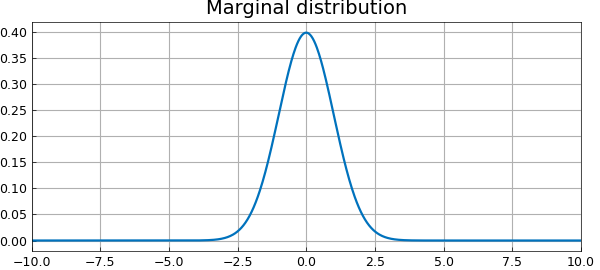
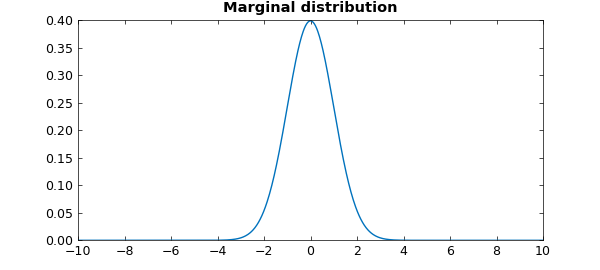
Restore computed bivariate conditional density and page output

Changed region(s): [[0.0, 0.0, 0.99, 1.0]]

diff --git a/examples/stats/bivariate_normal_distribution.py b/examples/stats/bivariate_normal_distribution.py
@@ -22,7 +22,7 @@ import numpy as np
 sys.path.insert(0, os.path.join(os.path.dirname(__file__), '..', '..', 'src'))
 
 import chebfunjax as cj
-from chebfunjax.plotting import chebfun_style
+from chebfunjax.plotting import PARULA, chebfun_style, surf
 from chebfunjax.plotting import save_chebfun_figure as _savefig
 
 chebfun_style()
@@ -32,10 +32,31 @@ _IMG = os.path.join(_HERE, '..', '..', 'docs', 'images', 'stats')
 FIG = [0]
 
 
+def _format_axes(fig, number):
+    ax = fig.axes[0]
+    ax.tick_params(labelsize=9)
+    if number < 3:
+        ax.set_title(ax.get_title(), fontsize=10.5, fontweight="bold")
+        ax.set_xticks(np.arange(-10, 11, 2))
+        ax.tick_params(direction="in", top=True, right=True)
+        if number == 1:
+            ax.set_yticks(np.arange(-10, 11, 2))
+            for collection in ax.collections:
+                collection.set_linewidth(0.5)
+        else:
+            ax.set_yticks(np.arange(0, 0.401, 0.05))
+            for line in ax.lines:
+                line.set_linewidth(1.0)
+    else:
+        ax.set_xticks(np.arange(-2, 3))
+        ax.set_yticks(np.arange(-2, 3))
+        ax.set_zticks(np.arange(0, 0.51, 0.1))
+
+
 def _save(fig):
     FIG[0] += 1
     fig.set_facecolor("white")
-    fig.tight_layout()
+    _format_axes(fig, FIG[0])
     _savefig(fig, os.path.join(
         _IMG, f"BivariateNormalDistribution_{FIG[0]:02d}.png"))
     plt.close(fig)
@@ -60,58 +81,51 @@ def run():
                           * jnp.sqrt(1 - rho**2))
         * jnp.exp(-z(x, y) / (2 * (1 - rho**2))), domain=d)
 
-    xs = np.linspace(-4, 4, 240)
+    xs = np.linspace(-10, 10, 240)
     X, Y = np.meshgrid(xs, xs)
     Z = np.asarray(p(jnp.asarray(X), jnp.asarray(Y)))
-    fig, ax = plt.subplots(figsize=(7.6, 6.4))
-    ax.contour(X, Y, Z, levels=np.arange(0.001, 0.2, 0.01))
+    fig = plt.figure(figsize=(6.0, 2.7))
+    ax = fig.add_axes([0.13, 0.11, 0.775, 0.815])
+    ax.contour(X, Y, Z, levels=np.arange(0.001, 0.2, 0.01), cmap=PARULA)
     ax.set_title("Bivariate normal distribution", fontsize=14)
-    ax.set_aspect("equal")
+    ax.set_xlim(-10, 10)
+    ax.set_ylim(-10, 10)
     _save(fig)
     print(f"Integral of pdf {float(p.sum2()):1.16f}")
 
-    px = p.sum(dim=1)   # marginal over y
+    px = p.sum()   # source default: integrate over y
     xg = np.linspace(-10, 10, 800)
-    fig, ax = plt.subplots(figsize=(9.0, 4.6))
+    fig = plt.figure(figsize=(6.0, 2.7))
+    ax = fig.add_axes([0.13, 0.11, 0.775, 0.815])
     ax.plot(xg, np.asarray(px(xg)).ravel(), lw=1.6)
     ax.set_title("Marginal distribution", fontsize=14)
-    ax.grid(True)
+    ax.set_xlim(-10, 10)
+    ax.set_ylim(0, 0.4)
     _save(fig)
-    exact = (lambda x: 1 / (np.sqrt(2 * np.pi) * s1)
-             * np.exp(-(x - mu1)**2 / s1**2 / 2))
-    gx, gw = np.polynomial.legendre.leggauss(1000)
-    xq = 10 * gx
-    dv = np.asarray(px(xq)).ravel() - exact(xq)
-    err = np.sqrt(np.sum(gw * dv**2) * 10)
+    exact = cj.chebfun(
+        lambda x: 1 / (jnp.sqrt(2 * jnp.pi) * s1)
+        * jnp.exp(-(x - mu1)**2 / s1**2 / 2), domain=d[:2])
+    err = float((px - exact.T).norm())
     print(f"Error of marginal = {err:1.3e}")
 
     # conditional pdf on a smaller domain
     d2 = (-2.0, 2.0, -2.0, 2.0)
-    fy = cj.chebfun2(
-        lambda x, y: (1 / (2 * jnp.pi * s1 * s2
-                           * jnp.sqrt(1 - rho**2))
-                      * jnp.exp(-z(x, y) / (2 * (1 - rho**2))))
-        / (1 / (jnp.sqrt(2 * jnp.pi) * s1)
-           * jnp.exp(-(x - mu1)**2 / s1**2 / 2)), domain=d2)
-    xs2 = np.linspace(-2, 2, 200)
-    X2, Y2 = np.meshgrid(xs2, xs2)
-    Z2 = np.asarray(fy(jnp.asarray(X2), jnp.asarray(Y2)))
-    fig = plt.figure(figsize=(8.2, 6.2))
-    ax = fig.add_subplot(projection="3d")
-    ax.plot_surface(X2, Y2, Z2, cmap="viridis")
-    ax.set_title("Conditional pdf", fontsize=13)
+    fy = cj.chebfun2(lambda x, y: p(x, y) / px.T(x), domain=d2)
+    fig, ax = surf(fy)
     _save(fig)
 
     x0 = np.pi / 6
     mu = mu1 + s1 / s2 * rho * (x0 - mu2)
     sigmasq = (1 - rho**2) * s1**2
-    exact_c = (lambda y: 1 / np.sqrt(2 * np.pi * sigmasq)
-               * np.exp(-(y - mu)**2 / sigmasq / 2))
-    yq = 2 * gx
-    dv = (np.asarray(fy(np.full_like(yq, x0), yq)).ravel()
-          - exact_c(yq))
-    errc = np.sqrt(np.sum(gw * dv**2) * 2)
+    exact_c = cj.chebfun(
+        lambda y: 1 / jnp.sqrt(2 * jnp.pi * sigmasq)
+        * jnp.exp(-(y - mu)**2 / sigmasq / 2), domain=d2[:2])
+    errc = float((fy(x0, ":") - exact_c).norm())
     print(f"Error in conditional pdf is {errc:1.5e}")
+    return {"integral": float(p.sum2()), "marginal_error": err,
+            "conditional_error": errc, "joint_rank": p.approx.rank,
+            "conditional_rank": fy.approx.rank,
+            "marginal_length": len(px)}
 
 
 if __name__ == "__main__":

diff --git a/scripts/gen_example_pages.py b/scripts/gen_example_pages.py
@@ -413,6 +413,7 @@ def main():
             ("linalg", "EigLandscapes"),
             ("applics", "VanillaOptions"),
             ("approx", "Noisy"),
+            ("stats", "BivariateNormalDistribution"),
         }:
             print(f"{key}: skipped source-managed page; preserve pinned native "
                   "prose/code and qualified Python stdout/figures")

diff --git a/docs/port_mirror_execution_cpu_20261010.md b/docs/port_mirror_execution_cpu_20261010.md
@@ -34,10 +34,10 @@ The v4 lane audit details and timeout-policy hashes remain in `recovery_20261010
 
 Native `tests/misc/test_pde15s.m` compares the same PDE under `chebtech1` and `chebtech2`, with native default solver options, and checks cross-run norm against `1e5*pref.chebfuneps`. Native `pdeSolve.m` sets PDE tolerance to `1e-6` by default, maps ODE tolerances from it, and adaptively refines nonperiodic `chebtech2` spatial grids. The frozen Python test instead supplies `rtol=1e-10`, `atol=1e-12`; its solver uses fixed inferred resolution with no spatial adaptation. Treat this as an open solver implementation/port-contract gap. Do not loosen the assertion or claim a tolerance-only repair. SciPy dependency debt remains separate; this evidence does not establish a JAX-only solver.
 
-## Direct Chebfun3 battery: first thirty-two cases qualified
+## Direct Chebfun3 battery: first forty cases qualified
 
-Thirty-two of the 80 direct cases now pass on the frozen `e6748499` source, separately
-from the wrapper results above. Indices 0–31 cover 160 native predicates; 48 direct
+Forty of the 80 direct cases now pass on the frozen `e6748499` source, separately
+from the wrapper results above. Indices 0–39 cover 200 native predicates; 40 direct
 cases remain unexecuted. These results do not establish current-main suite success.
 
 | Gate | Original handle | Cases | Wall time | Peak summed RSS |
@@ -48,9 +48,10 @@ cases remain unexecuted. These results do not establish current-main suite succe
 | `execution_v14` | 15703 | indices 8–15 | 587.71 s | 3,350,932 KiB |
 | `execution_v15` | 57135 | indices 16–23 | 706.68 s | 3,277,836 KiB |
 | `execution_v16` | 79002 | indices 24–31 | 420.81 s | 2,183,724 KiB |
+| `execution_v17` | 45680 | indices 32–39 | 370.55 s | 1,914,480 KiB |
 
 Each case ran serially in a fresh spawn worker, with its original 600-second
-per-case timeout and a 4 GiB RSS cap. All six runs exited normally, with stable
+per-case timeout and a 4 GiB RSS cap. All seven runs exited normally, with stable
 inputs, no resource cap, and no surviving owned process. The observer records
 worker completion before the pool terminates it; parent and worker module/native
 snapshots all pass. Snapshots do not prove coverage of transient dynamic loads.
@@ -93,3 +94,9 @@ bindings and ordered eight-case JUnit scope. Audit:
 `execution_v16/AUDIT_v16.json`, SHA-256
[1 lines of base64/hex data omitted]
 Root review: `ROOT_INDICES24_31_REVIEW.json`.
+
+The v17 audit verifies all eight exact nodes and worker completion records.
+Root verified 13 artifact bindings and ordered JUnit indices32–39. Inputs
+remain stable, with no cap or survivors. Audit: `execution_v17/AUDIT_v17.json`,
[1 lines of base64/hex data omitted]
+Root review: `ROOT_INDICES32_39_REVIEW.json`. These remain historical results.

diff --git a/HANDOFF_CODEX.md b/HANDOFF_CODEX.md
@@ -1,5 +1,20 @@
 # chebfunjax: handoff to a Codex agent (2026-10-02)
 
+## Bivariate normal source computations and historical3D40/80 (2026-10-10)
+
+The bivariate-normal example now forms the conditional density from computed
+joint/marginal functions and uses public Chebfun norms. Full CPU execution
+22.36s, peak1,615,888KiB, completes all three outputs and600x270figures.
+Marginal/conditional errors1.67e-15/1.38e-15; cached MATLAB roundoff differs.
+The empty final output fence and misplaced conditional output are repaired.
+Source domains are retained; exact rendering remains open. Evidence:
+docs/bivariate_normal_source_cpu_20261010.json.
+
+Historical frozene6748499 directChebfun3 qualification reaches40/80 cases
+(200nativepredicates);40 remain. Latest eight pass in370.55s, no caps or
+survivors. These are not current-main suite results. Evidence:
+docs/port_mirror_execution_cpu_20261010.md.
+
 ## All twenty native minimax predicates restored (2026-10-10; latest)
 
 Remove nonnative reference-point jitter and retain stored Chebfun breakpoints

diff --git a/docs/examples/stats/BivariateNormalDistribution.md b/docs/examples/stats/BivariateNormalDistribution.md
@@ -39,7 +39,7 @@ fprintf('Integral of pdf %1.16f\n', integral2(p))
 ```
 
 ```text
-Integral of pdf 0.9999999999999982
+Integral of pdf 0.9999999999999983
 ```
 
 The value above is less than 1 because of numerical error, not because we have restricted the domain of the probability density function to $[-10,10]\times [,10,-10]$.
@@ -65,8 +65,7 @@ fprintf('Error of marginal = %1.3e\n',norm(px-exact'))
 ```
 
 ```text
-Error of marginal = 1.669e-15
-Error in conditional pdf is 1.75935e-16
+Error of marginal = 1.671e-15
 ```
 
 ## Conditional probability distributions
@@ -92,7 +91,7 @@ fprintf('Error in conditional pdf is %1.5e\n',norm(fy(x,:)-exact));
 ```
 
 ```text
-
+Error in conditional pdf is 1.38119e-15
 ```
 
 ## References
